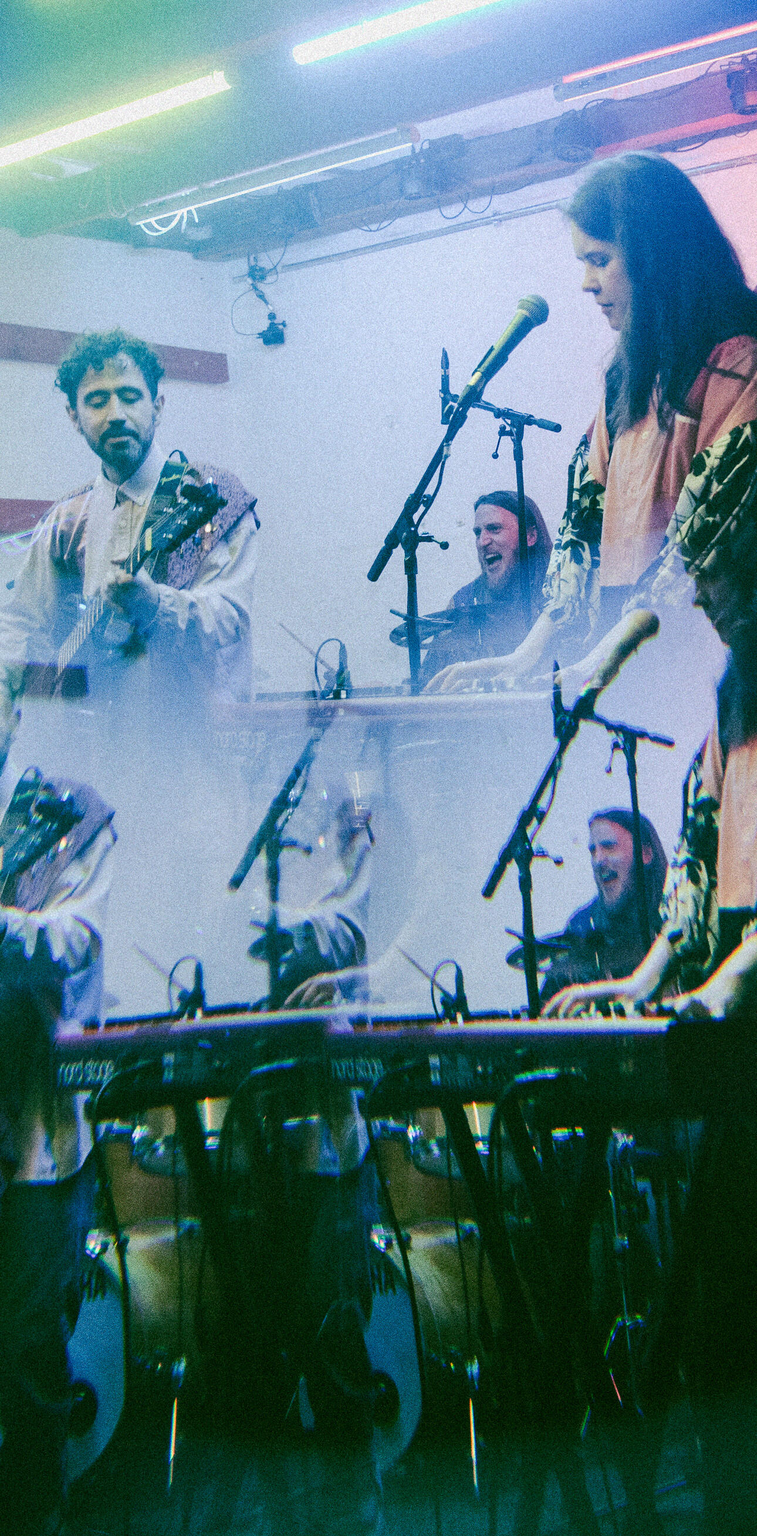
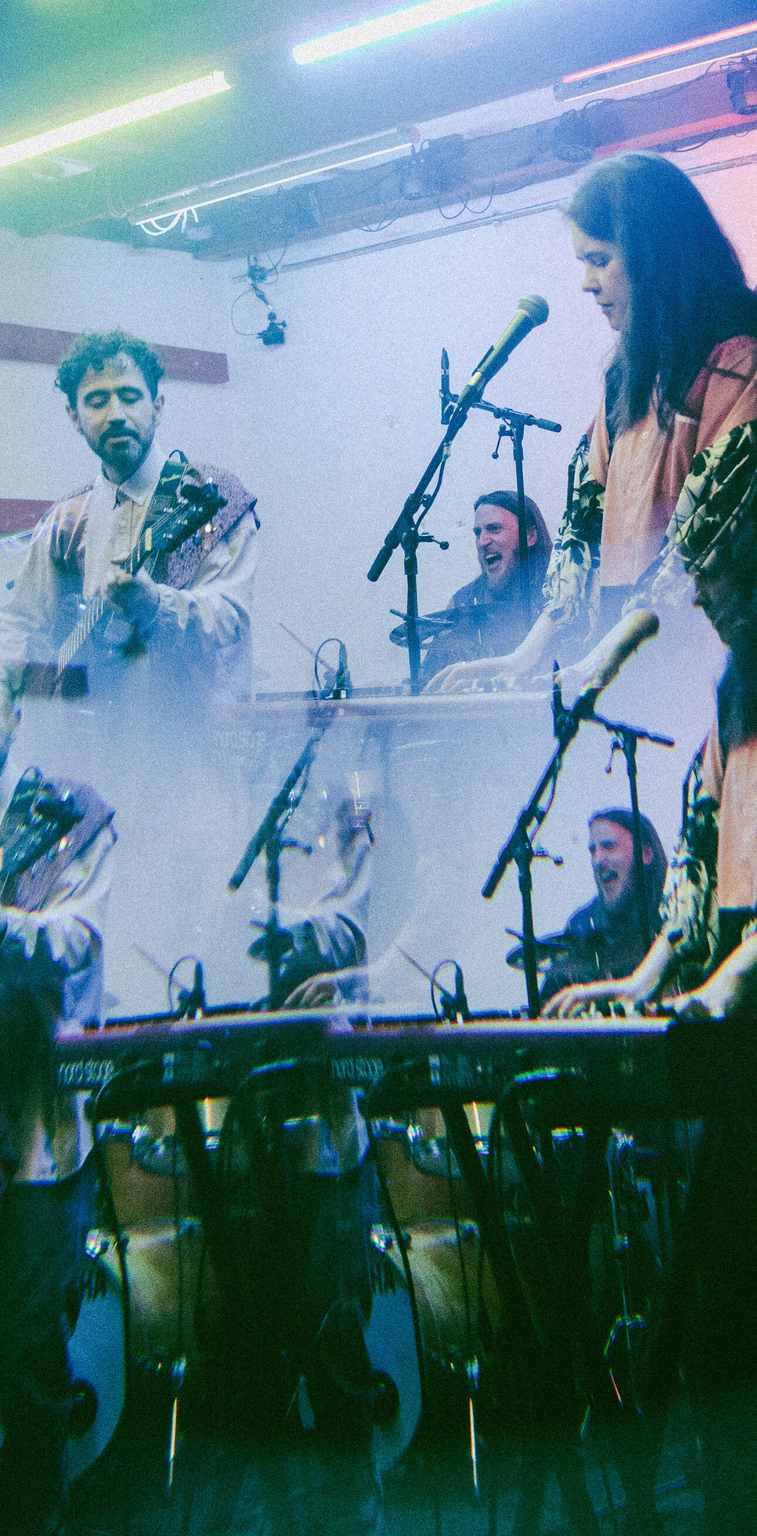
Frame the hero photo between strips of the wordmark pattern.
A thin strip of letters now wraps the menu button above the photo, and
the photo fades in and out over the same short, eased distance as the
other fades. The gap under the hero is half as tall as the other gaps.

diff --git a/css/style.css b/css/style.css
@@ -742,18 +742,46 @@ button:focus-visible .button-media {
 .home #logo::before {
   content: "";
   position: absolute;
-  inset: 0;
+  /* It starts below a strip of the wordmark pattern at the top, just tall
+     enough to wrap the menu button (the navbar's padding above and below
+     it, before scrolling), so the photo sits between letters above and
+     below and the button stands on the pattern. The photo starts half its
+     fade earlier, so the middle of the fade (where it reads as the edge)
+     is the same distance below the button as the space above it. */
+  inset: calc(2rem * 2 + 44px - var(--about-fade) / 2) 0 0;
   z-index: -1;
   background:
     linear-gradient(rgba(45, 40, 40, 0.55), rgba(45, 40, 40, 0.55)),
     image-set(url("../assets/photos/web/konservatoorium-1920.webp") type("image/webp"), url("../assets/photos/web/konservatoorium-1920.jpg") type("image/jpeg")) center / cover;
-  mask-image: linear-gradient(to bottom, #000 60%, transparent);
+  /* The photo fades in at the top and out at the bottom over the same
+     short distance as the other fades (--about-fade), eased like them. */
+  mask-image: linear-gradient(to bottom,
+    transparent 0,
+    rgba(0, 0, 0, 0.05) calc(var(--about-fade) * 0.15),
+    rgba(0, 0, 0, 0.18) calc(var(--about-fade) * 0.3),
+    rgba(0, 0, 0, 0.5) calc(var(--about-fade) * 0.5),
+    rgba(0, 0, 0, 0.82) calc(var(--about-fade) * 0.7),
+    rgba(0, 0, 0, 0.95) calc(var(--about-fade) * 0.85),
+    #000 var(--about-fade),
+    #000 calc(100% - var(--about-fade)),
+    rgba(0, 0, 0, 0.95) calc(100% - var(--about-fade) * 0.85),
+    rgba(0, 0, 0, 0.82) calc(100% - var(--about-fade) * 0.7),
+    rgba(0, 0, 0, 0.5) calc(100% - var(--about-fade) * 0.5),
+    rgba(0, 0, 0, 0.18) calc(100% - var(--about-fade) * 0.3),
+    rgba(0, 0, 0, 0.05) calc(100% - var(--about-fade) * 0.15),
+    transparent 100%);
 }
 
 /* Portrait screens get their own upright crop of the photo (Pepi on the
    left, Lisanna on the right, the drums at the bottom), lighter at the top
    and darker toward the "out now" line so it reads over the drums. The
    logo's own dark glow keeps it clear in the middle. */
+@media (max-width: 900px) {
+  .home #logo::before {
+    top: calc(1.25rem * 2 + 44px - var(--about-fade) / 2);
+  }
+}
+
 @media (orientation: portrait) {
   .home #logo::before {
     background:
@@ -1235,8 +1263,10 @@ button:focus-visible .button-media {
 }
 
 /* The gap under the hero: the hero's photo already fades out on its own,
-   so only the fade into the About section below. */
+   so only the fade into the About section below. Half the height of the
+   other gaps. */
 .section-gap-after-hero {
+  height: 15svh;
   background: linear-gradient(to bottom, var(--fade-stops)) bottom / 100% var(--about-fade) no-repeat;
 }
 
